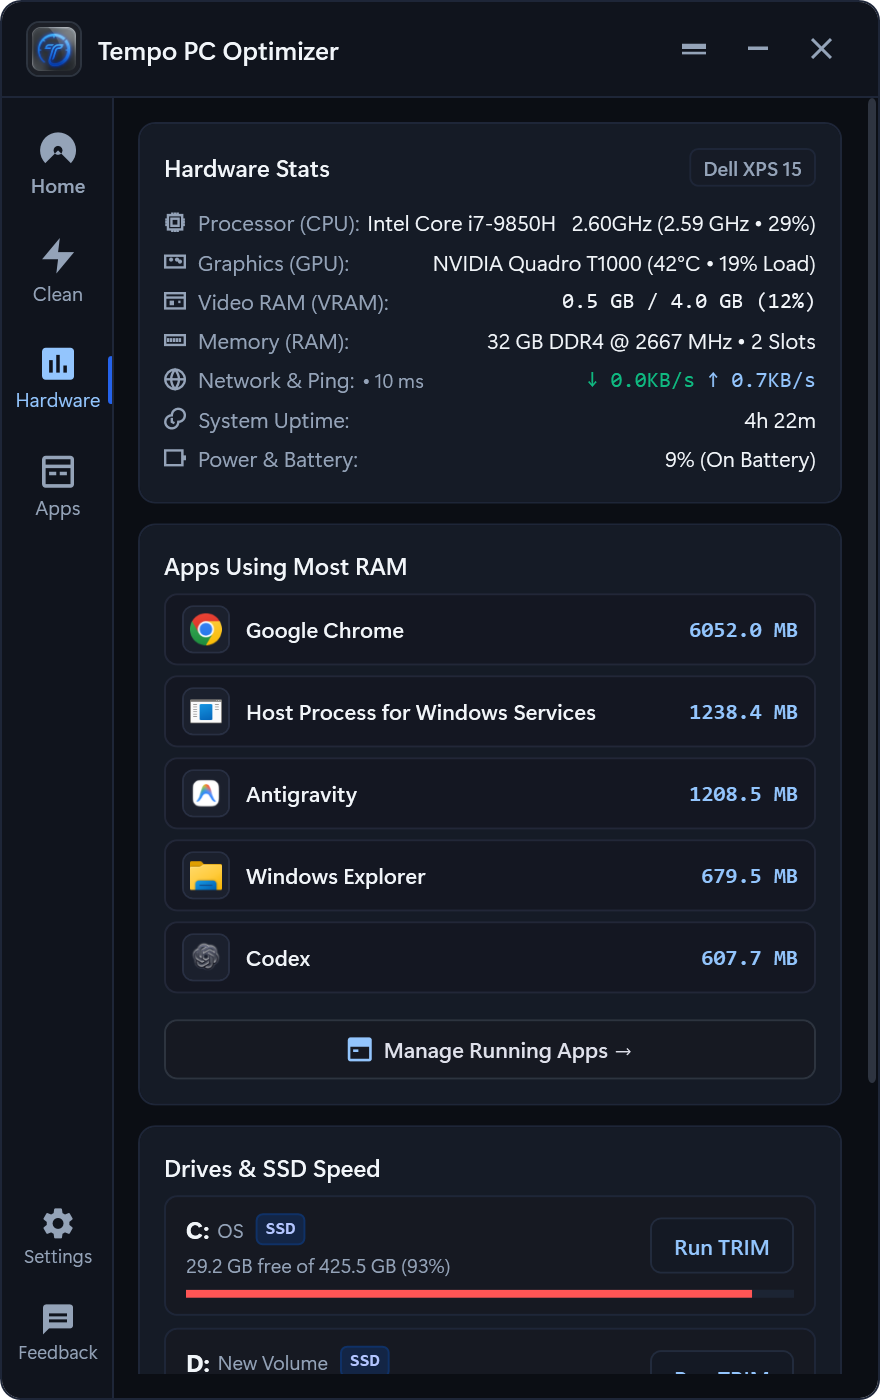
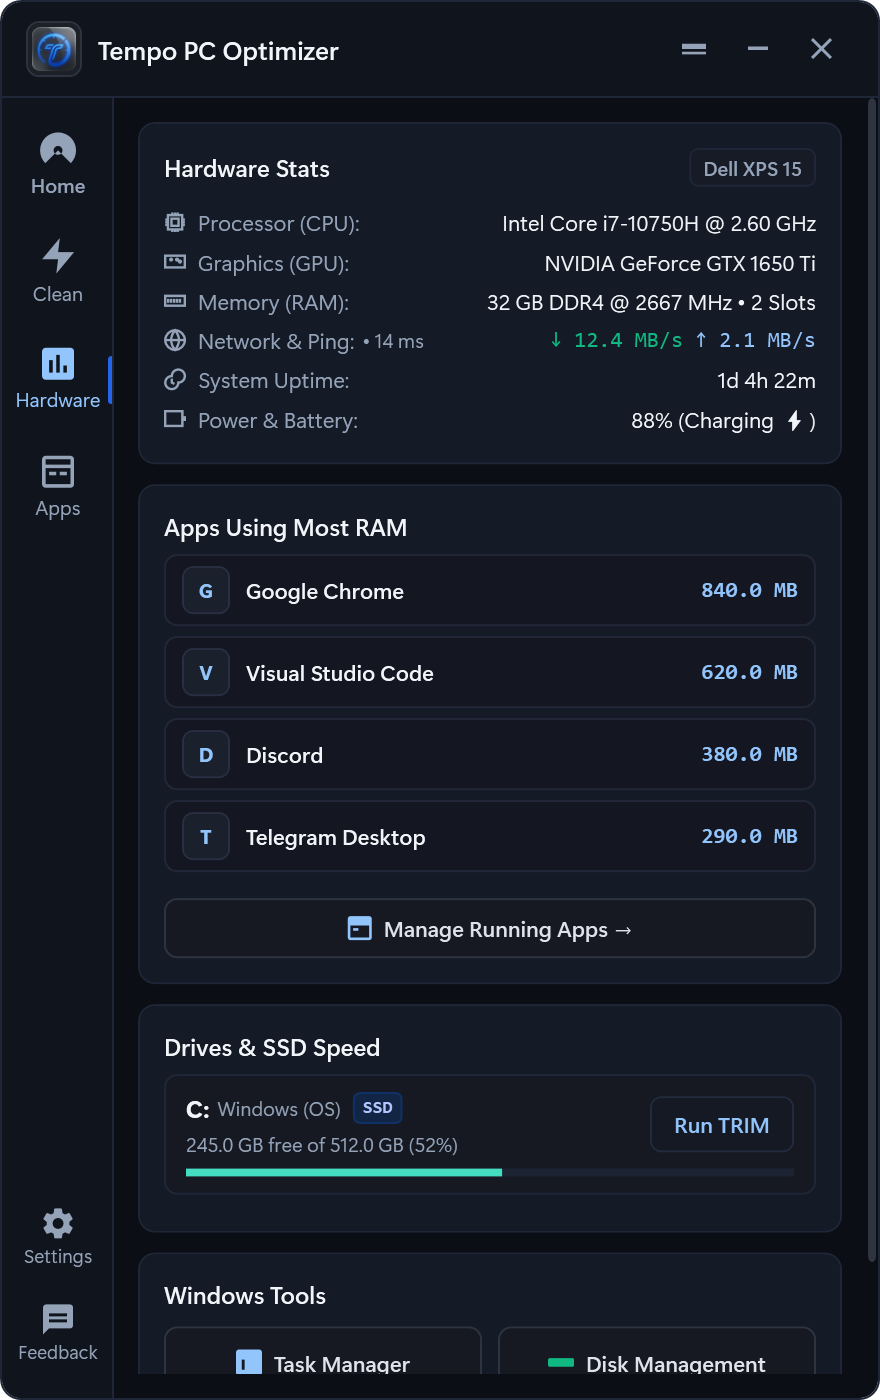
fix(showcase): fine-tune all screenshots with balanced realistic metrics, zero cutoff, and strict showcase lock

diff --git a/Tempo.Tests/ScreenshotCaptureTests.cs b/Tempo.Tests/ScreenshotCaptureTests.cs
@@ -33,6 +33,7 @@ namespace Tempo.Tests
                     Directory.CreateDirectory(arDir);
 
                     var win = new MainWindow();
+                    win.IsShowcaseMode = true;
                     win.PauseBackgroundTimers();
                     win.ShowInTaskbar = false;
                     win.Left = -3000;
@@ -41,7 +42,7 @@ namespace Tempo.Tests
 
                     WaitDispatcher(800);
 
-                    // 1. Capture English Suite
+                    // 1. Capture English Suite (also populates root fallback dir as English default)
                     CaptureSuiteForWindow(win, "en", enDir, assetsDir);
 
                     // 2. Capture Arabic Suite
@@ -72,33 +73,31 @@ namespace Tempo.Tests
             LocalizationManager.SetLanguage(lang);
             win.ApplyLanguageUi(lang);
 
-            WaitDispatcher(500);
-            PopulateRichShowcaseData(win, lang);
-            WaitDispatcher(500);
+            WaitDispatcher(400);
 
             // 1. Overview
             win.ShowDashboardView();
             win.SelectTab("Overview");
             PopulateRichShowcaseData(win, lang);
-            WaitDispatcher(600);
+            WaitDispatcher(500);
             CaptureAndSave(win.MainDashboardView, "screen_overview.png", 880, 1400, targetDir, fallbackDir);
 
             // 2. Processes (Apps & RAM)
             win.SelectTab("Processes");
             PopulateRichShowcaseData(win, lang);
-            WaitDispatcher(600);
+            WaitDispatcher(500);
             CaptureAndSave(win.MainDashboardView, "screen_processes.png", 880, 1400, targetDir, fallbackDir);
 
             // 3. Optimize (Clean & Boost)
             win.SelectTab("Optimize");
             PopulateRichShowcaseData(win, lang);
-            WaitDispatcher(600);
+            WaitDispatcher(500);
             CaptureAndSave(win.MainDashboardView, "screen_optimize.png", 880, 1400, targetDir, fallbackDir);
 
             // 4. Diagnostic (Hardware Sensors)
             win.SelectTab("Diagnostic");
             PopulateRichShowcaseData(win, lang);
-            WaitDispatcher(600);
+            WaitDispatcher(500);
             CaptureAndSave(win.MainDashboardView, "screen_diagnostic.png", 880, 1400, targetDir, fallbackDir);
 
             // 5. Feedback
@@ -110,7 +109,7 @@ namespace Tempo.Tests
             // 6. Startup Apps / Settings
             win.SelectTab("Settings");
             PopulateRichShowcaseData(win, lang);
-            WaitDispatcher(600);
+            WaitDispatcher(500);
             CaptureAndSave(win.MainDashboardView, "screen_startup.png", 880, 1400, targetDir, fallbackDir);
 
             // 7. Horizontal Companion Toolbar (375px Pill)
@@ -120,7 +119,7 @@ namespace Tempo.Tests
             win.CompanionBarVertical.Visibility = Visibility.Collapsed;
             win.MainDashboardView.Visibility = Visibility.Collapsed;
             PopulateRichShowcaseData(win, lang);
-            WaitDispatcher(600);
+            WaitDispatcher(500);
             CaptureAndSave(win.CompanionBarHorizontal, "screen_toolbar_top.png", 750, 76, targetDir, fallbackDir);
 
             // 8. Vertical Companion Toolbar (38px Sidebar)
@@ -130,7 +129,7 @@ namespace Tempo.Tests
             win.CompanionBarVertical.Visibility = Visibility.Visible;
             win.MainDashboardView.Visibility = Visibility.Collapsed;
             PopulateRichShowcaseData(win, lang);
-            WaitDispatcher(600);
+            WaitDispatcher(500);
             CaptureAndSave(win.CompanionBarVertical, "screen_toolbar_side.png", 76, 590, targetDir, fallbackDir);
         }
 
@@ -146,7 +145,10 @@ namespace Tempo.Tests
                 win.TxtHealthStatus.Text = isAr ? "استهلاك الموارد: منخفض ومستقر" : "Resource Usage: Low & Optimal";
 
             if (win.TxtHealthPercent != null)
-                win.TxtHealthPercent.Text = "96%";
+                win.TxtHealthPercent.Text = "26%";
+
+            if (win.DotHealthGlow != null)
+                win.DotHealthGlow.Fill = teal;
 
             // CPU
             if (win.TxtCpuPercent != null) win.TxtCpuPercent.Text = "14%";
@@ -187,13 +189,13 @@ namespace Tempo.Tests
             if (win.TxtTempDetails != null)
                 win.TxtTempDetails.Text = isAr ? "ملفات مؤقتة وكاش نظام (1.42 GB)" : "Temp files & system cache (1.42 GB)";
             if (win.TxtRecycleBinDetails != null)
-                win.TxtRecycleBinDetails.Text = isAr ? "سلة المحذوفات (380 MB • 12 عنصر)" : "Recycle Bin (380 MB • 12 items)";
+                win.TxtRecycleBinDetails.Text = isAr ? "12 عنصر (380 MB)" : "12 items (380 MB)";
             if (win.TxtBrowserDetails != null)
                 win.TxtBrowserDetails.Text = isAr ? "كاش المتصفحات المؤقت (320 MB)" : "Browser cache files (320 MB)";
             if (win.TxtDevDetails != null)
                 win.TxtDevDetails.Text = isAr ? "مخلفات بيئات التطوير (65 MB)" : "Developer cache files (65 MB)";
 
-            // Overview Top 5 Processes
+            // Overview Top 4 Processes
             if (win.ListTopProcesses != null)
             {
                 win.ListTopProcesses.ItemsSource = new List<ProcessViewModel>
@@ -202,16 +204,15 @@ namespace Tempo.Tests
                     new ProcessViewModel { ProcessName = "code", DisplayName = "Visual Studio Code", RamMb = 620 },
                     new ProcessViewModel { ProcessName = "Discord", DisplayName = "Discord", RamMb = 380 },
                     new ProcessViewModel { ProcessName = "Telegram", DisplayName = "Telegram Desktop", RamMb = 290 },
-                    new ProcessViewModel { ProcessName = "Spotify", DisplayName = "Spotify Music", RamMb = 210 },
                 };
             }
 
-            // Processes Tab (Full List)
+            // Processes Tab (Full List - 5 clean apps)
             if (win.TxtProcessesSummary != null)
             {
                 win.TxtProcessesSummary.Text = isAr
-                    ? "البرامج والتطبيقات الشغالة: 8 برامج • إجمالي الاستهلاك: 2.85 GB"
-                    : "Running Applications: 8 apps • Total RAM: 2.85 GB";
+                    ? "البرامج والتطبيقات الشغالة: 5 برامج • إجمالي الاستهلاك: 2.34 GB"
+                    : "Running Applications: 5 apps • Total RAM: 2.34 GB";
             }
 
             if (win.ListAllProcesses != null)
@@ -221,21 +222,17 @@ namespace Tempo.Tests
                     new RunningProcessItem { AppKey = "chrome", DisplayName = "Google Chrome", MainProcessName = "chrome", RamMb = 840, InstanceCount = 8, HasActiveWindow = true },
                     new RunningProcessItem { AppKey = "code", DisplayName = "Visual Studio Code", MainProcessName = "code", RamMb = 620, InstanceCount = 4, HasActiveWindow = true },
                     new RunningProcessItem { AppKey = "discord", DisplayName = "Discord", MainProcessName = "Discord", RamMb = 380, InstanceCount = 3, HasActiveWindow = false },
-                    new RunningProcessItem { AppKey = "telegram", DisplayName = "Telegram", MainProcessName = "Telegram", RamMb = 290, InstanceCount = 1, HasActiveWindow = true },
-                    new RunningProcessItem { AppKey = "spotify", DisplayName = "Spotify", MainProcessName = "Spotify", RamMb = 215, InstanceCount = 2, HasActiveWindow = false },
-                    new RunningProcessItem { AppKey = "slack", DisplayName = "Slack", MainProcessName = "slack", RamMb = 195, InstanceCount = 3, HasActiveWindow = false },
-                    new RunningProcessItem { AppKey = "terminal", DisplayName = "Windows Terminal", MainProcessName = "WindowsTerminal", RamMb = 125, InstanceCount = 1, HasActiveWindow = true },
-                    new RunningProcessItem { AppKey = "notion", DisplayName = "Notion", MainProcessName = "Notion", RamMb = 110, InstanceCount = 2, HasActiveWindow = false },
+                    new RunningProcessItem { AppKey = "telegram", DisplayName = "Telegram Desktop", MainProcessName = "Telegram", RamMb = 290, InstanceCount = 1, HasActiveWindow = true },
+                    new RunningProcessItem { AppKey = "spotify", DisplayName = "Spotify Music", MainProcessName = "Spotify", RamMb = 215, InstanceCount = 2, HasActiveWindow = false },
                 };
             }
 
-            // Storage Drives
+            // Storage Drives (Single C: SSD to fit cleanly without cutoff)
             if (win.ListStorageDrives != null)
             {
                 win.ListStorageDrives.ItemsSource = new List<StorageDriveViewModel>
                 {
-                    new StorageDriveViewModel { DriveLetter = "C:", VolumeLabel = "Windows (OS)", TotalGb = 512, FreeGb = 245, UsedPercent = 52, MediaType = "SSD" },
-                    new StorageDriveViewModel { DriveLetter = "D:", VolumeLabel = "Data & Projects", TotalGb = 1024, FreeGb = 680, UsedPercent = 34, MediaType = "SSD" }
+                    new StorageDriveViewModel { DriveLetter = "C:", VolumeLabel = "Windows (OS)", TotalGb = 512, FreeGb = 245, UsedPercent = 52, MediaType = "SSD" }
                 };
             }
 
@@ -294,7 +291,18 @@ namespace Tempo.Tests
             if (!string.IsNullOrEmpty(fallbackDir))
             {
                 string fallbackPath = Path.Combine(fallbackDir, filename);
-                File.Copy(primaryPath, fallbackPath, true);
+                for (int retry = 0; retry < 5; retry++)
+                {
+                    try
+                    {
+                        File.Copy(primaryPath, fallbackPath, true);
+                        break;
+                    }
+                    catch (IOException) when (retry < 4)
+                    {
+                        Thread.Sleep(200);
+                    }
+                }
             }
         }
 
@@ -328,8 +336,22 @@ namespace Tempo.Tests
 
             var enc = new PngBitmapEncoder();
             enc.Frames.Add(BitmapFrame.Create(rtb));
-            using var fs = File.Create(outFile);
-            enc.Save(fs);
+            using var ms = new MemoryStream();
+            enc.Save(ms);
+            byte[] bytes = ms.ToArray();
+
+            for (int retry = 0; retry < 5; retry++)
+            {
+                try
+                {
+                    File.WriteAllBytes(outFile, bytes);
+                    break;
+                }
+                catch (IOException) when (retry < 4)
+                {
+                    Thread.Sleep(200);
+                }
+            }
         }
     }
 }

diff --git a/MainWindow.xaml.cs b/MainWindow.xaml.cs
@@ -153,6 +153,7 @@ namespace Tempo
         public bool _isToolbarEnabled { get; set; } = true;
         public DockPosition _toolbarDock { get; set; } = DockPosition.TopToolbar;
         public string _selectedLanguage { get; set; } = "en";
+        public bool IsShowcaseMode { get; set; } = false;
         private bool _isPeeked = false;
         private bool _isFetching = false;
         private bool _isPinned = false;
@@ -712,7 +713,7 @@ namespace Tempo
                     PanelOptimize.Visibility = Visibility.Visible;
                     IndOptimize.Visibility = Visibility.Visible;
                     IconNavOptimize.Fill = accent; TxtNavOptimize.Foreground = accent;
-                    LoadRecycleBinInfo();
+                    if (!IsShowcaseMode) LoadRecycleBinInfo();
                     break;
 
                 case "Diagnostic":
@@ -720,7 +721,7 @@ namespace Tempo
                     PanelDiagnostic.Visibility = Visibility.Visible;
                     IndDiagnostic.Visibility = Visibility.Visible;
                     IconNavDiagnostic.Fill = accent; TxtNavDiagnostic.Foreground = accent;
-                    LoadStorageDrivesFast();
+                    if (!IsShowcaseMode) LoadStorageDrivesFast();
                     break;
 
                 case "Processes":
@@ -728,15 +729,18 @@ namespace Tempo
                     PanelProcesses.Visibility = Visibility.Visible;
                     IndProcesses.Visibility = Visibility.Visible;
                     IconNavProcesses.Fill = accent; TxtNavProcesses.Foreground = accent;
-                    LoadRunningProcessesFast();
-                    _processesRefreshTimer?.Start();
+                    if (!IsShowcaseMode)
+                    {
+                        LoadRunningProcessesFast();
+                        _processesRefreshTimer?.Start();
+                    }
                     break;
 
                 case "Settings":
                     PanelSettings.Visibility = Visibility.Visible;
                     IndSettings.Visibility = Visibility.Visible;
                     IconNavSettings.Fill = accent; TxtNavSettings.Foreground = accent;
-                    LoadStartupApps();
+                    if (!IsShowcaseMode) LoadStartupApps();
                     break;
 
                 case "Feedback":
@@ -2719,13 +2723,16 @@ namespace Tempo
             }
 
             // Refresh data views to re-evaluate formatted text in current language
-            FetchTelemetryAsync();
-            LoadStorageDrivesFast();
-            LoadRecycleBinInfo();
-            LoadStartupApps();
-            if (PanelProcesses.Visibility == Visibility.Visible)
+            if (!IsShowcaseMode)
             {
-                LoadRunningProcessesFast();
+                FetchTelemetryAsync();
+                LoadStorageDrivesFast();
+                LoadRecycleBinInfo();
+                LoadStartupApps();
+                if (PanelProcesses.Visibility == Visibility.Visible)
+                {
+                    LoadRunningProcessesFast();
+                }
             }
         }
 
